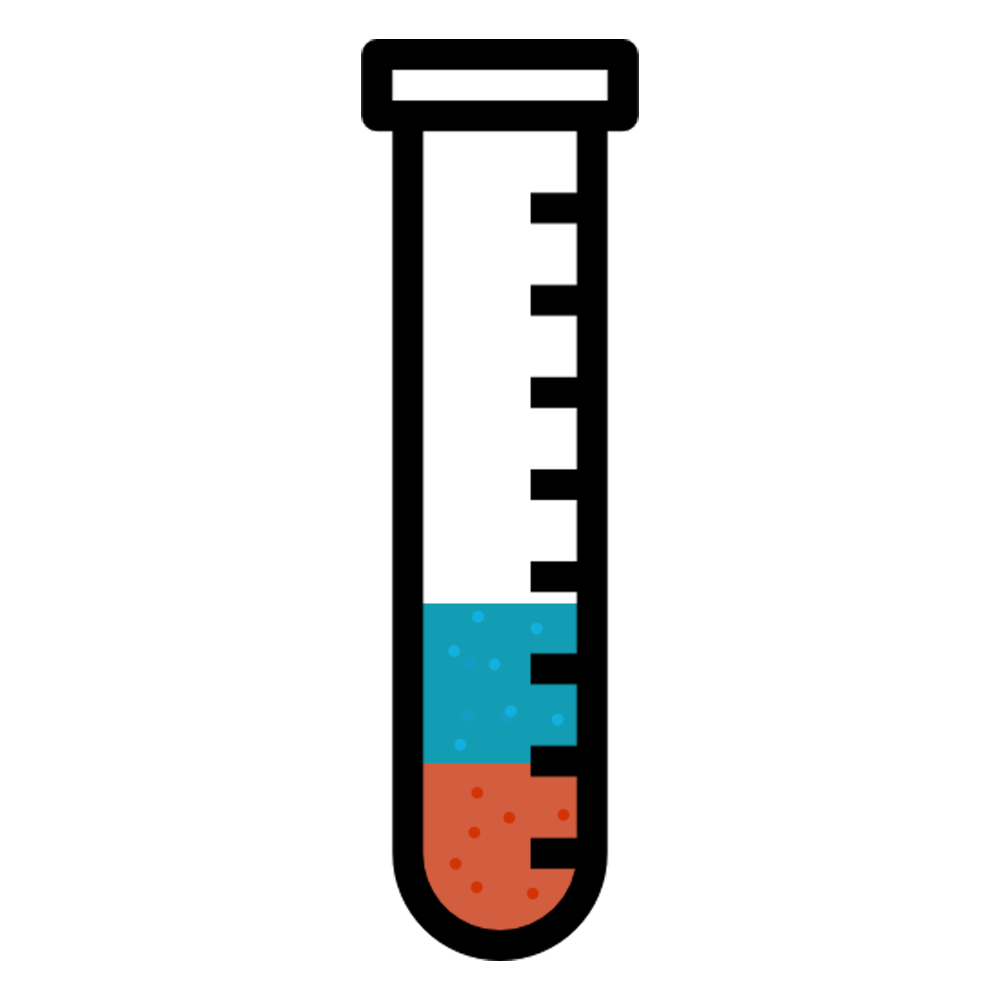
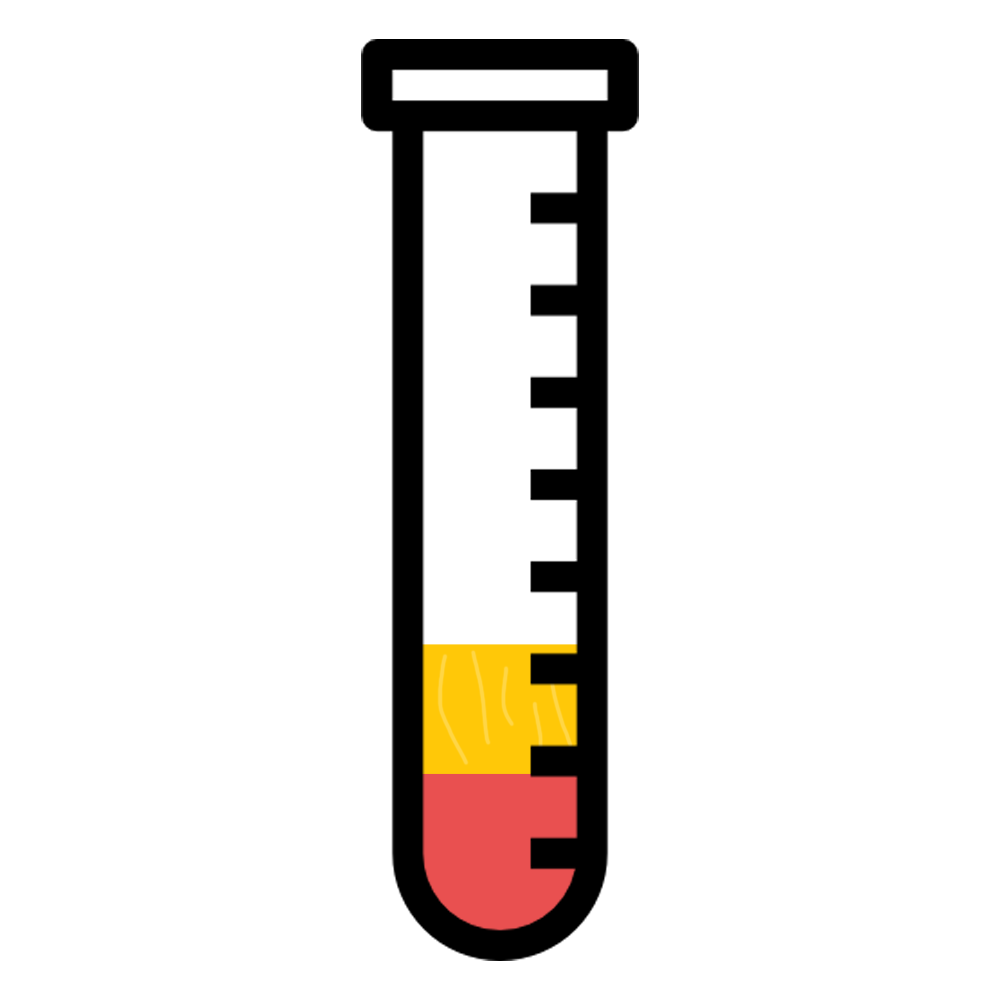
probeta

diff --git a/assets/js/probeta.js b/assets/js/probeta.js
@@ -6,48 +6,50 @@
         var jabon = document.getElementById('btnJabon').checked;
         var agua = document.getElementById('btnAgua').checked;
         var aceite = document.getElementById('btnAceite').checked;
+        var alcohol = document.getElementById('btnAlcohol').checked;
         var probeta = document.getElementById('probeta');
 
 
 
-        switch (quienSoy) {
-            case 'Miel': 1
-                ml('Miel');
+        
+        switch (quienSoy){
+            case 'Agua':
+                ml('Agua');
                 probeta.style.content = 'url("assets/iconos/Probeta/1.png")';
                 break;
-            case 'Jabon':
-                if (!miel) {
-                    tenerCuidado();
-                    document.getElementById('btnJabon').checked = false;
-                } else {
-                    ml('Jabón');
-                    probeta.style.content = 'url("assets/iconos/Probeta/2.png")';
-                }
-                break;
-            case 'Agua':
-                if (!(miel && jabon)) {
-                    tenerCuidado();
-                    document.getElementById('btnAgua').checked = false;
-                } else {
-                    ml('Agua')
-                    probeta.style.content = 'url("assets/iconos/Probeta/3.png")';
-                }
-                break;
             case 'Aceite':
-                if (!(miel && jabon && agua)) {
+                if (!agua) {
                     tenerCuidado();
                     document.getElementById('btnAceite').checked = false;
                 } else {
-                    ml('Aceite')
-                    probeta.style.content = 'url("assets/iconos/Probeta/4.png")';
+                    ml('Aceite');
+                    probeta.style.content = 'url("assets/iconos/Probeta/2.png")';
                 }
                 break;
             case 'Alcohol':
-                if (!(miel && jabon && agua && aceite)) {
+                if(!(agua && aceite)){
                     tenerCuidado();
                     document.getElementById('btnAlcohol').checked = false;
                 } else {
                     ml('Alcohol');
+                    probeta.style.content = 'url("assets/iconos/Probeta/3.png")';
+                }
+                break;
+            case 'Jabon':
+                if(!(agua && aceite && alcohol)){
+                    tenerCuidado();
+                    document.getElementById('btnJabon').checked = false;
+                } else {
+                    ml('Jabón');
+                    probeta.style.content = 'url("assets/iconos/Probeta/4.png")';
+                }
+                break;
+            case 'Miel':
+                if(!(agua && aceite && alcohol && jabon)){
+                    tenerCuidado();
+                    document.getElementById('btnMiel').checked = false;
+                } else {
+                    ml('Miel');
                     probeta.style.content = 'url("assets/iconos/Probeta/5.png")';
                 }
                 break;
